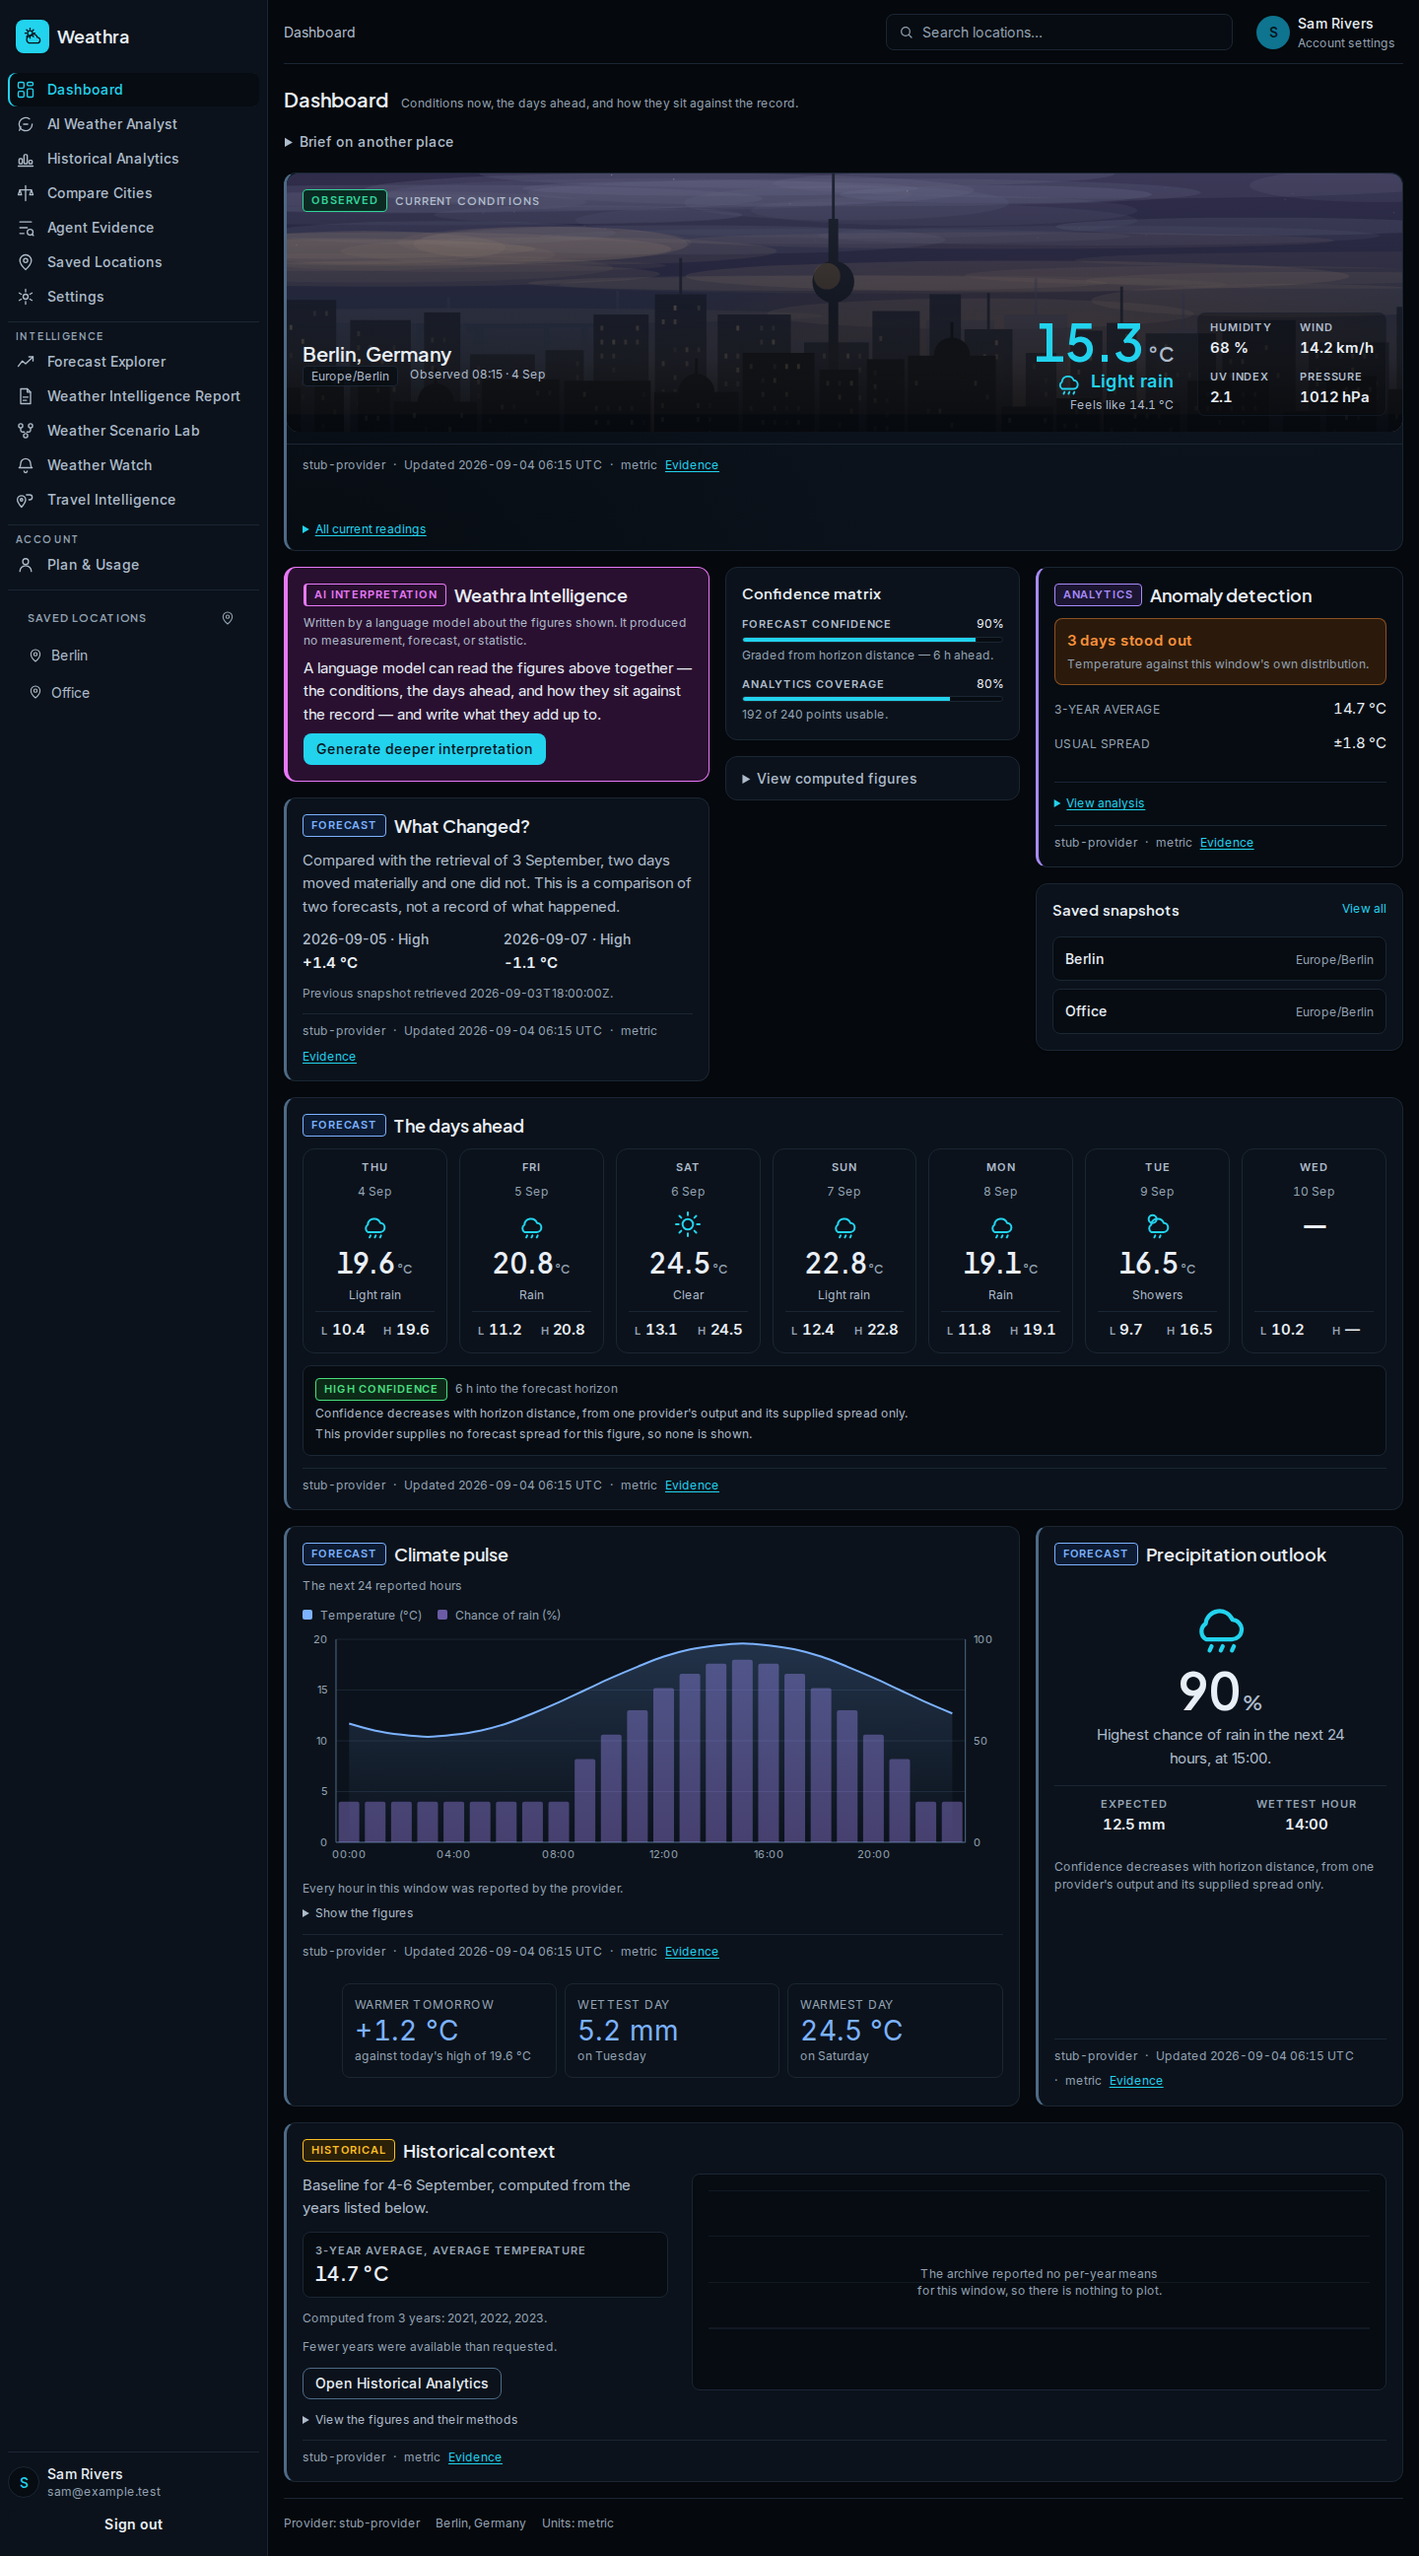
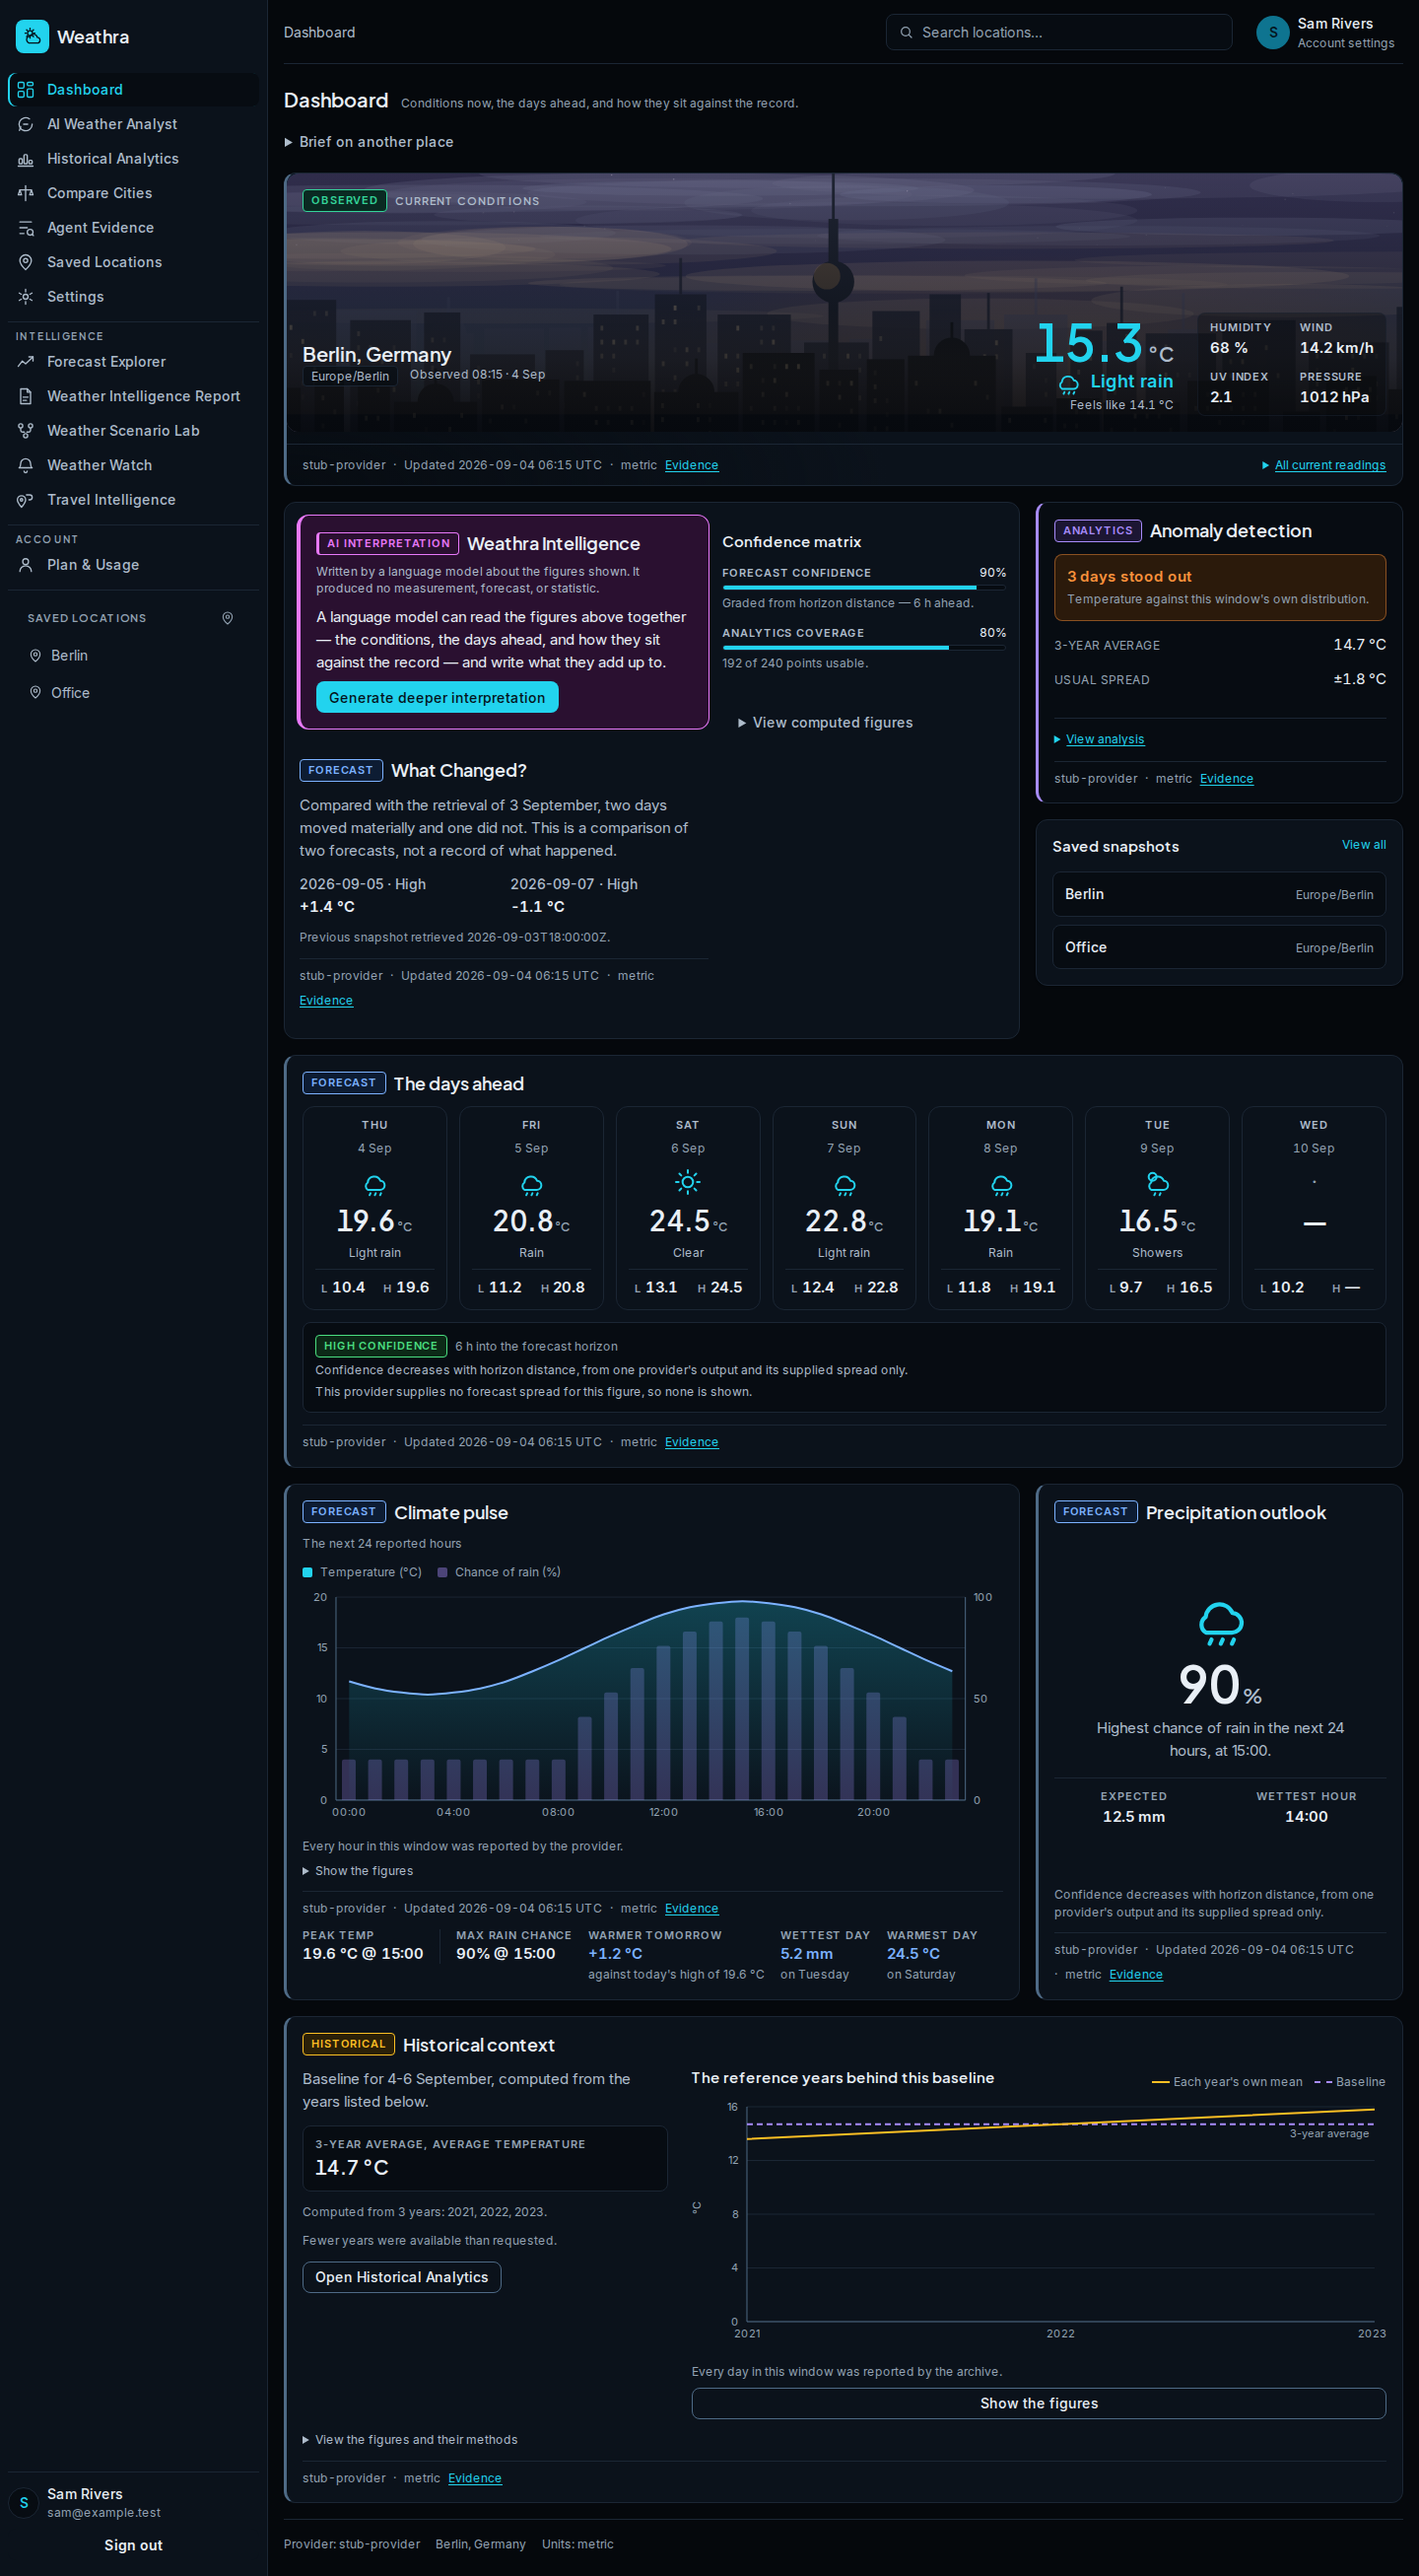
fix(dashboard): close the four differences the last pass left open
`f01fe96` graded this screen NOT CLOSE on four counts. Three had fixes committed
but no render to confirm them, and one was unfinished. This closes the fourth and
photographs all four.

**The footer rule.** The climate-pulse card ended on three bordered cards with
display-step figures in them — 90 pixels of card for three short statements, where
`01-dashboard.png` sets the same kind of thing as a label over a small figure on
one line. It is one rule now, and it leads with the pair the artifact itself puts
there: the peak temperature and the highest chance of rain, each with the hour it
falls in, read from the same 24 hours the curve above is drawn from. The three
deterministic insights follow it in the same treatment rather than in a grid of
their own — `.insightGrid` is `display: contents`, so five groups share one rule
with hairlines between them. No statement was dropped.

**One rule under the photograph, not two.** The hero closed on a provenance line
and then a second line holding "All current readings". They are siblings of the
section rather than of each other, so from 768 up the disclosure is lifted onto
the provenance line's own row, whose right side was empty. Below 768 they stack as
before, where the vertical room is cheap and the horizontal room is not.

**A day described in no way at all.** The last card in the strip had a hole where
its neighbours had an icon: the provider sent no dominant code *and* no rain
[…]

diff --git a/weathra/frontend/components/dashboard/dashboard.module.css b/weathra/frontend/components/dashboard/dashboard.module.css
@@ -1058,34 +1058,44 @@
  * screen support; a grid that wraps, because the number of statements is the number the data
  * carries and not a layout constant.
  */
+/*
+ * **Groups on a rule, not cards in a grid.**
+ *
+ * This was `repeat(auto-fit, minmax(180px, 1fr))` of bordered panels with display-step figures in
+ * them, which is how the climate-pulse card acquired a 90-pixel footer for three short statements.
+ * `01-dashboard.png` sets the same kind of thing — "PEAK HEAT 19°C @ 16:20" — as a label over a
+ * small figure, on one line, divided by space. `display: contents` hands each statement straight
+ * to `.kpiRule` below, so the two intra-day peaks and these three read as one rule rather than as
+ * a rule plus a grid.
+ */
 .insightGrid {
-  display: grid;
-  grid-template-columns: repeat(auto-fit, minmax(180px, 1fr));
-  gap: var(--space-2);
+  display: contents;
 }
 
 .insight {
-  display: grid;
+  display: flex;
+  flex-direction: column;
   gap: 2px;
-  align-content: start;
-  padding: var(--space-3);
-  border: 1px solid var(--color-border-subtle);
-  border-radius: var(--radius-md);
-  background: var(--color-surface-raised);
+  min-width: 0;
 }
 
 .insightTitle {
-  font-size: var(--type-meta-size);
-  letter-spacing: 0.04em;
+  font-size: var(--type-label-size);
+  line-height: var(--type-label-line);
+  font-weight: var(--type-label-weight);
+  letter-spacing: var(--type-label-tracking);
   text-transform: uppercase;
   color: var(--color-text-muted);
+  white-space: nowrap;
 }
 
 .insightValue {
-  font-size: var(--type-display-size, var(--type-section-size));
-  line-height: 1.1;
+  font-size: var(--type-card-size);
+  line-height: var(--type-card-line);
+  font-weight: var(--type-card-weight);
   color: var(--color-text-primary);
   font-variant-numeric: tabular-nums;
+  white-space: nowrap;
 }
 
 .insight[data-direction="up"] .insightValue {
@@ -1098,7 +1108,58 @@
 
 .insightDetail {
   font-size: var(--type-meta-size);
+  line-height: var(--type-meta-line);
   color: var(--color-text-muted);
+}
+
+/* ------------------------------------------------- a card's closing rule of small figures
+ *
+ * The container the intra-day peaks and the deterministic insights share. One row, wrapping at
+ * narrow widths, with a hairline between neighbours rather than a border around each — see
+ * `FooterKpi` and `.insightGrid` for what this replaced.
+ */
+.kpiRule {
+  display: flex;
+  flex-wrap: wrap;
+  align-items: baseline;
+  gap: var(--space-2) var(--space-4);
+  min-width: 0;
+}
+
+.kpi {
+  display: flex;
+  flex-direction: column;
+  gap: 2px;
+  min-width: 0;
+}
+
+.kpiTerm {
+  font-size: var(--type-label-size);
+  line-height: var(--type-label-line);
+  font-weight: var(--type-label-weight);
+  letter-spacing: var(--type-label-tracking);
+  text-transform: uppercase;
+  color: var(--color-text-muted);
+  white-space: nowrap;
+}
+
+.kpiValue {
+  font-size: var(--type-card-size);
+  line-height: var(--type-card-line);
+  font-weight: var(--type-card-weight);
+  color: var(--color-text-primary);
+  font-variant-numeric: tabular-nums;
+  white-space: nowrap;
+}
+
+/*
+ * The divider between groups. On the group rather than between them, so a wrapped row does not
+ * open a line with a hairline and the first group on every line is clean.
+ */
+.kpiRule > .kpi:not(:first-child),
+.kpiRule > .insight {
+  padding-left: var(--space-4);
+  border-left: 1px solid var(--color-border-subtle);
 }
 
 /* ------------------------------------------------------- hero condition and day icons */
@@ -1147,7 +1208,21 @@
   display: flex;
   justify-content: center;
   color: var(--color-accent);
-  min-height: 30px;
+  min-height: 32px;
+}
+
+/*
+ * The slot for a day the provider described in no way at all — no dominant code, no rain total.
+ * Same height as its neighbours, so the strip stays one shape, and unmistakably not a reading.
+ */
+.stripIconEmpty {
+  display: flex;
+  align-items: center;
+  justify-content: center;
+  min-height: 32px;
+  font-size: var(--type-heading-size);
+  line-height: 1;
+  color: var(--color-text-muted);
 }
 
 .stripCondition {
@@ -1232,8 +1307,12 @@
 }
 
 /* The rest of the current readings, behind the hero rather than under it. */
+/*
+ * No top margin: the disclosure sits on the provenance line rather than under it, so the gap it
+ * used to need is the line's own padding now. See the hero rules in `primitives.module.css`.
+ */
 .heroExtras {
-  margin-top: var(--space-3);
+  margin-top: 0;
 }
 
 .heroExtrasSummary {

diff --git a/weathra/frontend/components/dashboard/sections.tsx b/weathra/frontend/components/dashboard/sections.tsx
@@ -514,8 +514,26 @@ export function ForecastStrip({ forecast }: ForecastStripProps): ReactNode {
                 <span className={styles.stripIcon}>
                   <WeatherIcon condition={conditionOf(day)} size={32} />
                 </span>
-              ) : (
+              ) : dayPrecipitationFrom(day) !== null ? (
                 <DayPrecipitationGlyph outlook={dayPrecipitationFrom(day)} />
+              ) : (
+                /*
+                 * **A day with no condition and no precipitation figure.** Both glyph sources are
+                 * absent — the provider sent no dominant code and no rain total — and the card
+                 * rendered nothing at all in the slot, so the last card in the 2026-09-11 strip
+                 * had a hole where its neighbours had an icon and read as broken rather than as
+                 * unreported. A neutral mark keeps all seven cards one shape and says which of
+                 * the two it is; the figures the day *does* carry are untouched beneath it.
+                 */
+                <span
+                  className={styles.stripIconEmpty}
+                  title="The provider reported no condition for this day."
+                >
+                  <span aria-hidden="true">·</span>
+                  <span className="weathra-visually-hidden">
+                    No condition reported for this day.
+                  </span>
+                </span>
               )}
 
               {/*
@@ -1225,6 +1243,23 @@ export function SavedSnapshots({
  * the stub is in, and it is a real state — not every provider returns hourly data for every place.
  * A panel that vanished would make the Dashboard a different shape depending on the provider.
  */
+/**
+ * One group in a card's closing rule: a label over a figure, no frame around either.
+ *
+ * The frame is what made the old footer three cards. A KPI in the artifact is a label at the
+ * `label` step over a value at the `card` step, separated from its neighbour by space and a
+ * hairline — the same treatment the hero's metric block uses, which is how one screen ends up with
+ * one way of stating a small figure instead of three.
+ */
+function FooterKpi({ term, value }: { readonly term: string; readonly value: string }): ReactNode {
+  return (
+    <div className={styles.kpi}>
+      <span className={styles.kpiTerm}>{term}</span>
+      <span className={styles.kpiValue}>{value}</span>
+    </div>
+  );
+}
+
 export function ClimatePulse({
   forecast,
   footer = null,
@@ -1246,6 +1281,8 @@ export function ClimatePulse({
 
   const hours = intradayHours(forecast);
   const drawable = hours.some((hour) => hour.temperature !== null);
+  const peakTemperature = peakOf(hours, "temperature");
+  const peakChance = peakOf(hours, "chance");
 
   return (
     <ProvenanceSection
@@ -1260,7 +1297,29 @@ export function ClimatePulse({
         units: forecast.attribution?.units,
         fromCache: forecast.attribution?.from_cache,
       })}
-      footer={footer}
+      /*
+        **The artifact's closing rule, compacted.** `01-dashboard.png` ends this card on
+        "PEAK HEAT 19°C @ 16:20 · MAX RISK 45% @ 08:00" — two statements about the curve above
+        them, set small, on one line, divided by space rather than by borders. Ours rendered the
+        deterministic insights here as three bordered cards with display-step figures, which is
+        90 pixels of card doing the work of one 18-pixel rule.
+        Both peaks are read from the same 24 hours the chart plots, so a figure in the rule and the
+        same figure on the curve cannot disagree.
+      */
+      footer={
+        <div className={styles.kpiRule}>
+          {peakTemperature ? (
+            <FooterKpi
+              term="Peak temp"
+              value={`${formatReading({ value: peakTemperature.value, unit: forecast.hourly?.units?.temperature ?? null })} @ ${peakTemperature.at}`}
+            />
+          ) : null}
+          {peakChance ? (
+            <FooterKpi term="Max rain chance" value={`${Math.round(peakChance.value)}% @ ${peakChance.at}`} />
+          ) : null}
+          {footer}
+        </div>
+      }
     >
       <p className={styles.panelLead}>The next 24 reported hours</p>
       {drawable ? (

diff --git a/weathra/frontend/components/ui/primitives.module.css b/weathra/frontend/components/ui/primitives.module.css
@@ -1145,10 +1145,40 @@ input.controlBare[type="date"]::-webkit-calendar-picker-indicator:hover {
   display: block;
 }
 
-/* Padding the band itself no longer carries, restored to the two rules under the image. */
+/* Padding the band itself no longer carries, restored to the rule under the image. */
 .provenanceSection[data-variant="hero"] > .attribution,
 .provenanceSection[data-variant="hero"] > .provenanceFooter {
   padding: var(--space-3) var(--space-4);
+}
+
+/*
+ * **One rule under the photograph, not two.**
+ *
+ * The band closed on a provenance line and then, beneath it, a second line holding "All current
+ * readings" — two stacked rules and roughly 70 pixels of chrome under an image the artifact puts
+ * nothing at all beneath. They are siblings of the section rather than of each other, so the
+ * footer is lifted onto the provenance line's own row: the chips are left-aligned and the right of
+ * that row was empty.
+ *
+ * Only from 768 up. Below it the chips wrap to as many lines as they need and an overlapping
+ * control would land on top of them, so the two rules stack as before, where the vertical room is
+ * cheap and the horizontal room is not.
+ */
+@media (min-width: 768px) {
+  .provenanceSection[data-variant="hero"] > .provenanceFooter {
+    position: absolute;
+    right: var(--space-4);
+    bottom: 0;
+    padding: var(--space-3) 0;
+    /* Only as wide as the control in it, so it never covers a chip that wrapped towards it. */
+    width: max-content;
+    max-width: 40%;
+  }
+
+  /* Room kept on the provenance line for the control now sitting at the end of it. */
+  .provenanceSection[data-variant="hero"] > .attribution {
+    padding-right: 42%;
+  }
 }
 
 /* ---------------------------------------------------------------- location imagery
